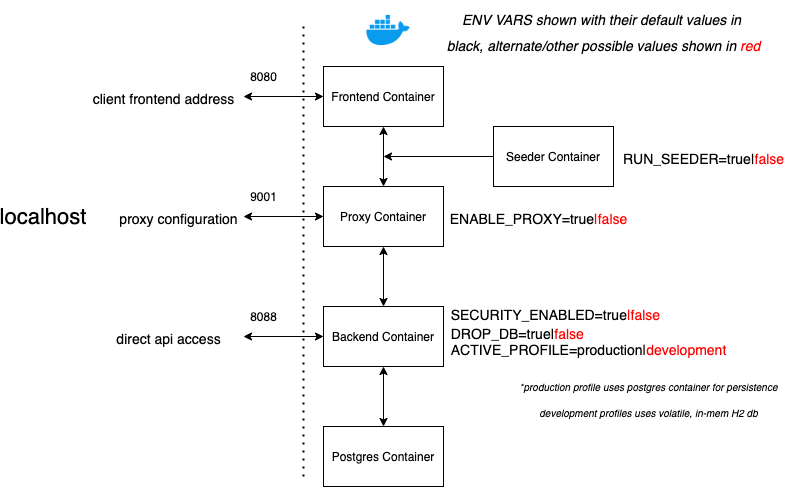
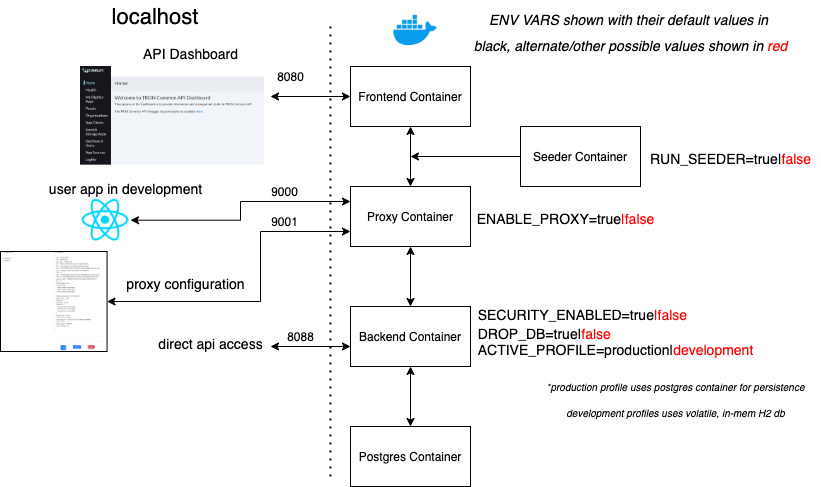
added more doc and images

diff --git a/README.md b/README.md
@@ -47,8 +47,13 @@ _BEFORE_ cloning this repo, follow the steps below to get an environment setup.
 
     *ACTIVE_PROFILE* - defaults to `production` which looks to use the postgres db to persist data across sessions.  If set to `development` the backend will use a Java-H2 in-mem database.
 
+7. To configure the proxy during runtime, navigate a web browser to http://localhost:9001 and the following screen will display
 
-7. To stop the stack, issue command:
+    ![Proxy Config](images/proxy.png)
+
+    On the proxy config screen, you can choose to enable/disable proxy and choose with JWT token is actively being injected into the inbound requests.  The active JWT can be edited from here as well and JWTs can be created/deleted too.
+
+8. To stop the stack, issue command:
 
     `docker-compose down`
 
